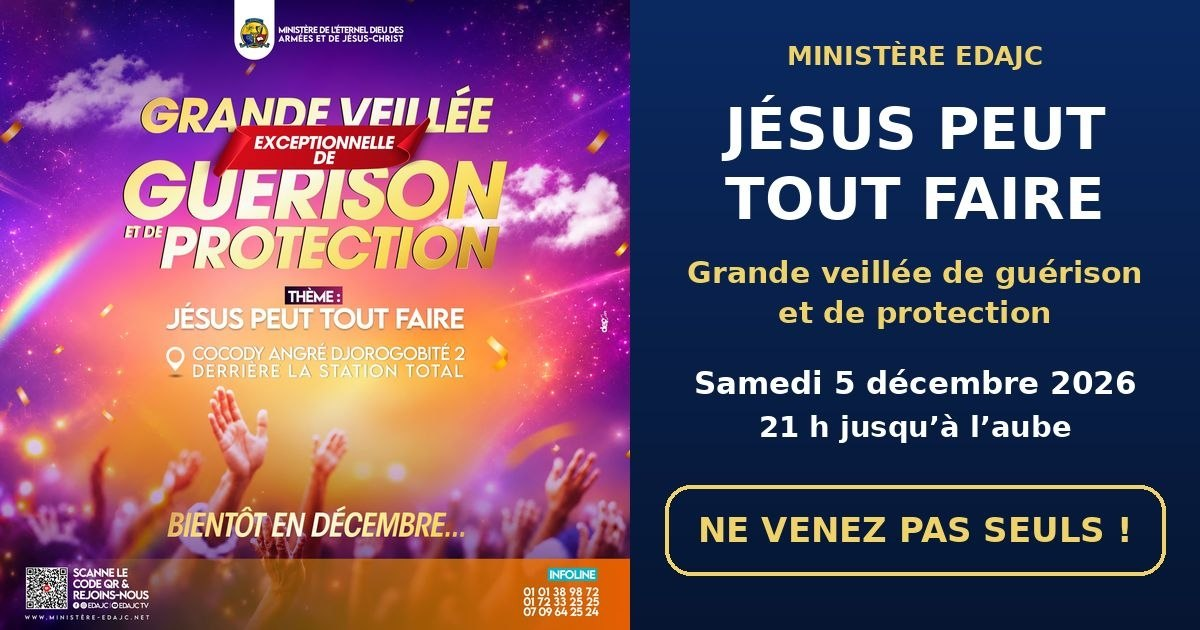
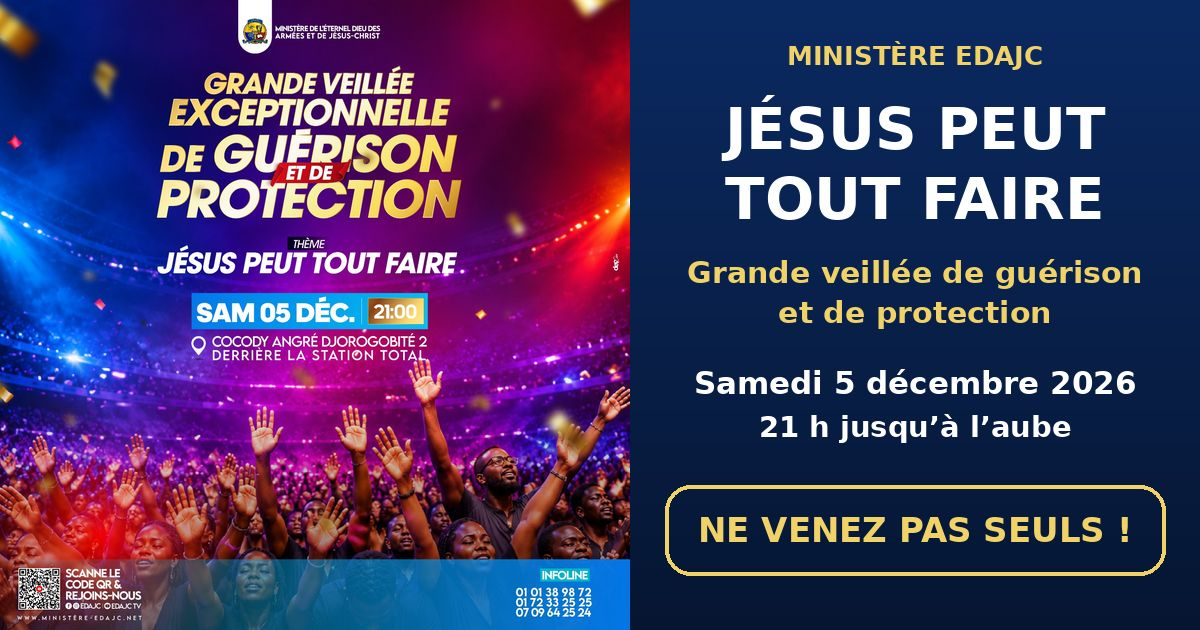
Add files via upload

diff --git a/en.html b/en.html
@@ -1,0 +1,80 @@
+<!DOCTYPE html><html lang="en"><head><meta charset="utf-8"><meta name="viewport" content="width=device-width, initial-scale=1, viewport-fit=cover"><meta name="theme-color" content="#0b2a62"><meta name="description" content="An exceptional, special prayer vigil for healing and protection — Saturday 5 December 2026, 9.00 pm until dawn — EDAJC Ministry. DON’T COME ALONE!"><meta property="og:type" content="website"><meta property="og:locale" content="en_US"><meta property="og:url" content="https://veille-edajc.vercel.app/en"><meta property="og:title" content="🙏 Exceptional, special prayer vigil for healing and protection — Saturday 5 December"><meta property="og:description" content="“Jesus can do anything” · 9.00 pm – until dawn · EDAJC Ministry headquarters · DON’T COME ALONE! Confirm your attendance in 1 minute."><meta property="og:image" content="https://veille-edajc.vercel.app/apercu-en.jpg"><meta property="og:image:width" content="1200"><meta property="og:image:height" content="630"><meta name="twitter:card" content="summary_large_image"><title>Prayer Vigil for Healing and Protection — EDAJC Ministry</title>
+<style>
+:root{--gold:#f0d268;--ink:#0b2f6e;--mut:#5b6b8c;box-sizing:border-box;padding-top:env(safe-area-inset-top,0px);padding-bottom:env(safe-area-inset-bottom,0px)}
+*{box-sizing:border-box}
+body{margin:0;-webkit-text-size-adjust:100%;font-family:Roboto,system-ui,-apple-system,"Segoe UI",Arial,sans-serif;font-size:18px;line-height:1.5;color:#fff;text-align:center;background:#071a3d linear-gradient(180deg,#0b2a62,#061633)}
+.w{max-width:560px;margin:auto}
+.poster{display:block;width:100%;height:auto}
+.hero{padding:28px 20px 8px}
+.eye{letter-spacing:4px;font-weight:600;color:var(--gold);font-size:15px}
+h1{margin:6px 0 14px;font-size:34px;line-height:1.1;font-weight:800;color:var(--gold);text-transform:uppercase}
+h2{margin:0 0 14px;font-size:24px;line-height:1.25;font-weight:800;text-transform:uppercase}
+.inst{font-size:14px;font-weight:700;opacity:.85;margin:0 0 18px}
+.d{font-size:24px;font-weight:800;margin:0}.i{font-size:21px;margin:4px 0}
+#cd{display:flex;gap:8px;justify-content:center;margin:18px 0}#cd div{background:#ffffff1f;border-radius:12px;padding:8px 6px;min-width:66px}#cd b{display:block;font-size:26px;color:var(--gold)}#cd span{font-size:12px}
+.slogan{margin:18px 20px;padding:20px 12px;border:2px solid #f0d26899;border-radius:26px;font-size:28px;font-weight:800;color:var(--gold)}
+.q{margin:0 24px;font-style:italic;opacity:.95}
+.card{background:#fff;color:#111b33;border-radius:28px;padding:24px 22px;margin:22px 14px;text-align:left}
+.card h3{margin:0 0 10px;font-size:27px;line-height:1.2;color:var(--ink)}.card p{margin:0 0 14px;color:var(--mut);font-size:17px}
+label{display:block;font-weight:800;margin:16px 0 6px}
+input,select{width:100%;min-height:58px;padding:12px 16px;font:inherit;color:#111b33;background:#fff;border:1.5px solid #cfd6e4;border-radius:14px}
+.btn{display:flex;align-items:center;justify-content:center;width:100%;min-height:60px;margin:14px 0 0;padding:12px 14px;border:0;border-radius:16px;font:800 17px/1.25 inherit;font-family:inherit;text-transform:uppercase;text-align:center;text-decoration:none;color:#fff;background:#0e7f4b;cursor:pointer}
+.btn.gold{background:#efd47a;color:#0b2a62}.btn.lt{background:#eef2fb;color:#0b2a62}
+.note{font-size:15px;color:var(--mut);margin-top:14px}.err{display:none;color:#b3261e;font-weight:700;margin-top:12px}
+#ok{display:none;margin-top:16px;padding:16px;border-radius:16px;background:#e6f6ec;color:#0b3d22}
+.tel a{color:var(--ink);font-weight:700}
+footer{padding:10px 18px 36px;font-size:16px;opacity:.9}
+</style></head><body><div class="w"><div style="text-align:right;padding:10px 16px"><a href="/" style="color:#f0d268;font-weight:800;text-decoration:none;font-size:16px">Français</a></div></div><div class="w">
+<img class="poster" src="/poster.jpg" width="760" height="760" fetchpriority="high" alt="Official poster of the prayer vigil of the EDAJC Ministry">
+<div class="hero">
+<div class="eye">EDAJC MINISTRY</div>
+<h1>Jesus can do anything</h1>
+<h2>An exceptional, special prayer vigil for healing and protection</h2>
+
+<p class="d">Saturday 5 December 2026</p><p class="i">9.00 pm – until dawn</p><p class="i">EDAJC Ministry headquarters</p>
+<div id="cd" aria-label="Countdown"></div>
+</div>
+<div class="slogan">DON’T COME ALONE!</div>
+<p class="q">Let us come in large numbers with our families, friends and acquaintances, so that everyone may benefit from the protection and shelter of the LORD.</p>
+<div class="card" id="inscription"><h3>Confirm your attendance</h3>
+<p>Enter your details and choose how you will attend. After you confirm, WhatsApp will open with your message already filled in: tap “Send” to transmit your confirmation.</p>
+<form id="f" novalidate>
+<label for="n">Last name *</label><input id="n" type="text" placeholder="Your last name" autocomplete="family-name">
+<label for="p">First names *</label><input id="p" type="text" placeholder="Your first names" autocomplete="given-name">
+<label for="l">Place of residence (district / neighborhood) *</label><input id="l" type="text" placeholder="E.g. Cocody, Angré">
+<label for="t">Phone number *</label><input id="t" type="tel" placeholder="A number where we can reach you" autocomplete="tel">
+<label for="m">How will you attend? *</label><select id="m"><option value="">Choose an option</option><option>In person at the EDAJC Ministry headquarters</option><option>Online</option></select>
+<div class="err" id="e">Please fill in all fields.</div>
+<button class="btn" type="submit">I confirm my attendance</button>
+</form>
+<div id="ok"><b>🙏 Thank you <span id="who"></span>!</b><br>If WhatsApp did not open, tap here:<a class="btn" id="wa" target="_blank" rel="noopener">Send my confirmation on WhatsApp</a></div>
+<p class="note">Your details are sent to +225 01 03 87 08 68 only after you tap “Send” in WhatsApp.</p></div>
+<div class="card"><h3>Practical information</h3>
+<a class="btn gold" href="https://maps.app.goo.gl/ivyGJ2Xn42hyRaqS9?g_st=ac" target="_blank" rel="noopener">Find the EDAJC Ministry headquarters</a>
+<a class="btn lt" id="yt" target="_blank" rel="noopener">Watch the vigil live on YouTube</a>
+<p class="note">Join from anywhere! The live link will be shared five minutes before the vigil begins.</p>
+<p class="note" style="margin-bottom:0">Subscribe to the <b>EDAJC TV</b> channel and turn on the bell 🔔 to be alerted as soon as the live starts.</p><a class="btn" style="background:#e62117" href="https://youtube.com/@edajctv6878?sub_confirmation=1" target="_blank" rel="noopener">🔔 Subscribe to EDAJC TV</a><a class="btn" id="sh" target="_blank" rel="noopener">Share the invitation on WhatsApp</a>
+<a class="btn lt" href="https://wa.me/2250103870868" target="_blank" rel="noopener">Contact the Ministry</a>
+<p class="note tel">Cocody Angré Djorogobité 2, behind the Total gas station<br>Infoline: <a href="tel:+2250101389872">01 01 38 98 72</a> · <a href="tel:+2250172332525">01 72 33 25 25</a> · <a href="tel:+2250709642524">07 09 64 25 24</a></p></div>
+<footer>EDAJC Ministry · Saturday 5 December 2026 · 9.00 pm – until dawn</footer></div>
+<script>
+// LIEN DU DIRECT : collez ici le lien du direct YouTube le jour J (vide = chaîne EDAJC TV)
+var LIVE="";
+// Lien du tableau Google Sheets (ou Formspree) : les inscriptions y sont enregistrées automatiquement
+var FORM_ENDPOINT="https://script.google.com/macros/s/AKfycbwok6t0iMi9jRzwqMN26XbAS2lTzbVNIcS5VDIXDR6gz6nkFzTv_8-mJo_vwPgkdPhG/exec";
+var CHAN="https://youtube.com/@edajctv6878?si=tfUYe3aAanvVrKhK",WA="https://wa.me/2250103870868";
+var $=function(i){return document.getElementById(i)};
+$("yt").href=LIVE||CHAN;
+$("sh").href="https://wa.me/?text="+encodeURIComponent("🙏 AN EXCEPTIONAL, SPECIAL PRAYER VIGIL FOR HEALING AND PROTECTION — “JESUS CAN DO ANYTHING”\nSaturday 5 December 2026, 9.00 pm – until dawn, EDAJC Ministry headquarters.\nDON’T COME ALONE!\nInvitation and registration: "+location.href.split("#")[0]);
+function tick(){var d=new Date(2026,11,5,21,0,0)-new Date();if(d<=0){$("cd").textContent="The vigil has begun! 🙏";return}
+var a=[[Math.floor(d/864e5),"days"],[Math.floor(d%864e5/36e5),"h"],[Math.floor(d%36e5/6e4),"min"],[Math.floor(d%6e4/1e3),"s"]];
+$("cd").innerHTML=a.map(function(x){return"<div><b>"+x[0]+"</b><span>"+x[1]+"</span></div>"}).join("")}
+tick();setInterval(tick,1000);
+$("f").addEventListener("submit",function(ev){ev.preventDefault();
+var n=$("n").value.trim(),p=$("p").value.trim(),l=$("l").value.trim(),t=$("t").value.trim(),m=$("m").value;
+if(!n||!p||!l||!m||t.replace(/\D/g,"").length<8){$("e").style.display="block";return}
+$("e").style.display="none";
+var msg="Hello, I confirm my attendance at the prayer vigil for healing and protection on Saturday 5 December 2026.\nLast name: "+n+"\nFirst names: "+p+"\nPlace of residence: "+l+"\nPhone: "+t+"\nAttendance: "+m,u=WA+"?text="+encodeURIComponent(msg);
+if(FORM_ENDPOINT){var o={nom:n,prenoms:p,lieu:l,telephone:t,mode:m},g=/script\.google\.com/.test(FORM_ENDPOINT);fetch(FORM_ENDPOINT,g?{method:"POST",mode:"no-cors",body:JSON.stringify(o)}:{method:"POST",headers:{"Accept":"application/json","Content-Type":"application/json"},body:JSON.stringify(o)}).catch(function(){})}
+$("wa").href=u;$("who").textContent=p;$("ok").style.display="block";window.open(u,"_blank")});
+</script></body></html>

diff --git a/index.html b/index.html
@@ -1,4 +1,4 @@
-<!DOCTYPE html><html lang="fr"><head><meta charset="utf-8"><meta name="viewport" content="width=device-width, initial-scale=1, viewport-fit=cover"><meta name="theme-color" content="#0b2a62"><meta name="description" content="Grande Veillée Exceptionnelle de Guérison et de Protection — Samedi 5 décembre 2026 dès 21 h — Ministère EDAJC. NE VENEZ PAS SEULS !"><meta property="og:type" content="website"><meta property="og:locale" content="fr_FR"><meta property="og:url" content="https://veille-edajc.vercel.app/"><meta property="og:title" content="🙏 Grande Veillée de Guérison et de Protection — Samedi 5 décembre"><meta property="og:description" content="« Jésus peut tout faire » · Dès 21 h jusqu’à l’aube · Siège du Ministère EDAJC · NE VENEZ PAS SEULS ! Confirmez votre présence en 1 minute."><meta property="og:image" content="https://veille-edajc.vercel.app/apercu.jpg"><meta property="og:image:width" content="1200"><meta property="og:image:height" content="630"><meta name="twitter:card" content="summary_large_image"><title>Grande Veillée de Guérison et de Protection — Ministère EDAJC</title>
+<!DOCTYPE html><html lang="fr"><head><meta charset="utf-8"><meta name="viewport" content="width=device-width, initial-scale=1, viewport-fit=cover"><meta name="theme-color" content="#0b2a62"><meta name="description" content="Grande Veillée Exceptionnelle de Guérison et de Protection — Samedi 5 décembre 2026 dès 21 h — Ministère EDAJC. NE VENEZ PAS SEULS !"><meta property="og:type" content="website"><meta property="og:locale" content="fr_FR"><meta property="og:url" content="https://veille-edajc.vercel.app/"><meta property="og:title" content="🙏 Grande Veillée de Guérison et de Protection — Samedi 5 décembre"><meta property="og:description" content="« Jésus peut tout faire » · Dès 21 h jusqu’à l’aube · Siège du Ministère EDAJC · NE VENEZ PAS SEULS ! Confirmez votre présence en 1 minute."><meta property="og:image" content="https://veille-edajc.vercel.app/apercu.jpg"><meta property="og:image:width" content="1200"><meta property="og:image:height" content="630"><meta name="twitter:card" content="summary_large_image"><link rel="alternate" hreflang="en" href="https://veille-edajc.vercel.app/en"><title>Grande Veillée de Guérison et de Protection — Ministère EDAJC</title>
 <style>
 :root{--gold:#f0d268;--ink:#0b2f6e;--mut:#5b6b8c;box-sizing:border-box;padding-top:env(safe-area-inset-top,0px);padding-bottom:env(safe-area-inset-bottom,0px)}
 *{box-sizing:border-box}
@@ -24,7 +24,7 @@ input,select{width:100%;min-height:58px;padding:12px 16px;font:inherit;color:#11
 #ok{display:none;margin-top:16px;padding:16px;border-radius:16px;background:#e6f6ec;color:#0b3d22}
 .tel a{color:var(--ink);font-weight:700}
 footer{padding:10px 18px 36px;font-size:16px;opacity:.9}
-</style></head><body><div class="w">
+</style></head><body><div class="w"><div style="text-align:right;padding:10px 16px"><a href="/en" style="color:#f0d268;font-weight:800;text-decoration:none;font-size:16px">English</a></div></div><div class="w">
 <img class="poster" src="poster.jpg" width="760" height="760" fetchpriority="high" alt="Affiche officielle de la Grande Veillée du Ministère EDAJC">
 <div class="hero">
 <div class="eye">MINISTÈRE EDAJC</div>
